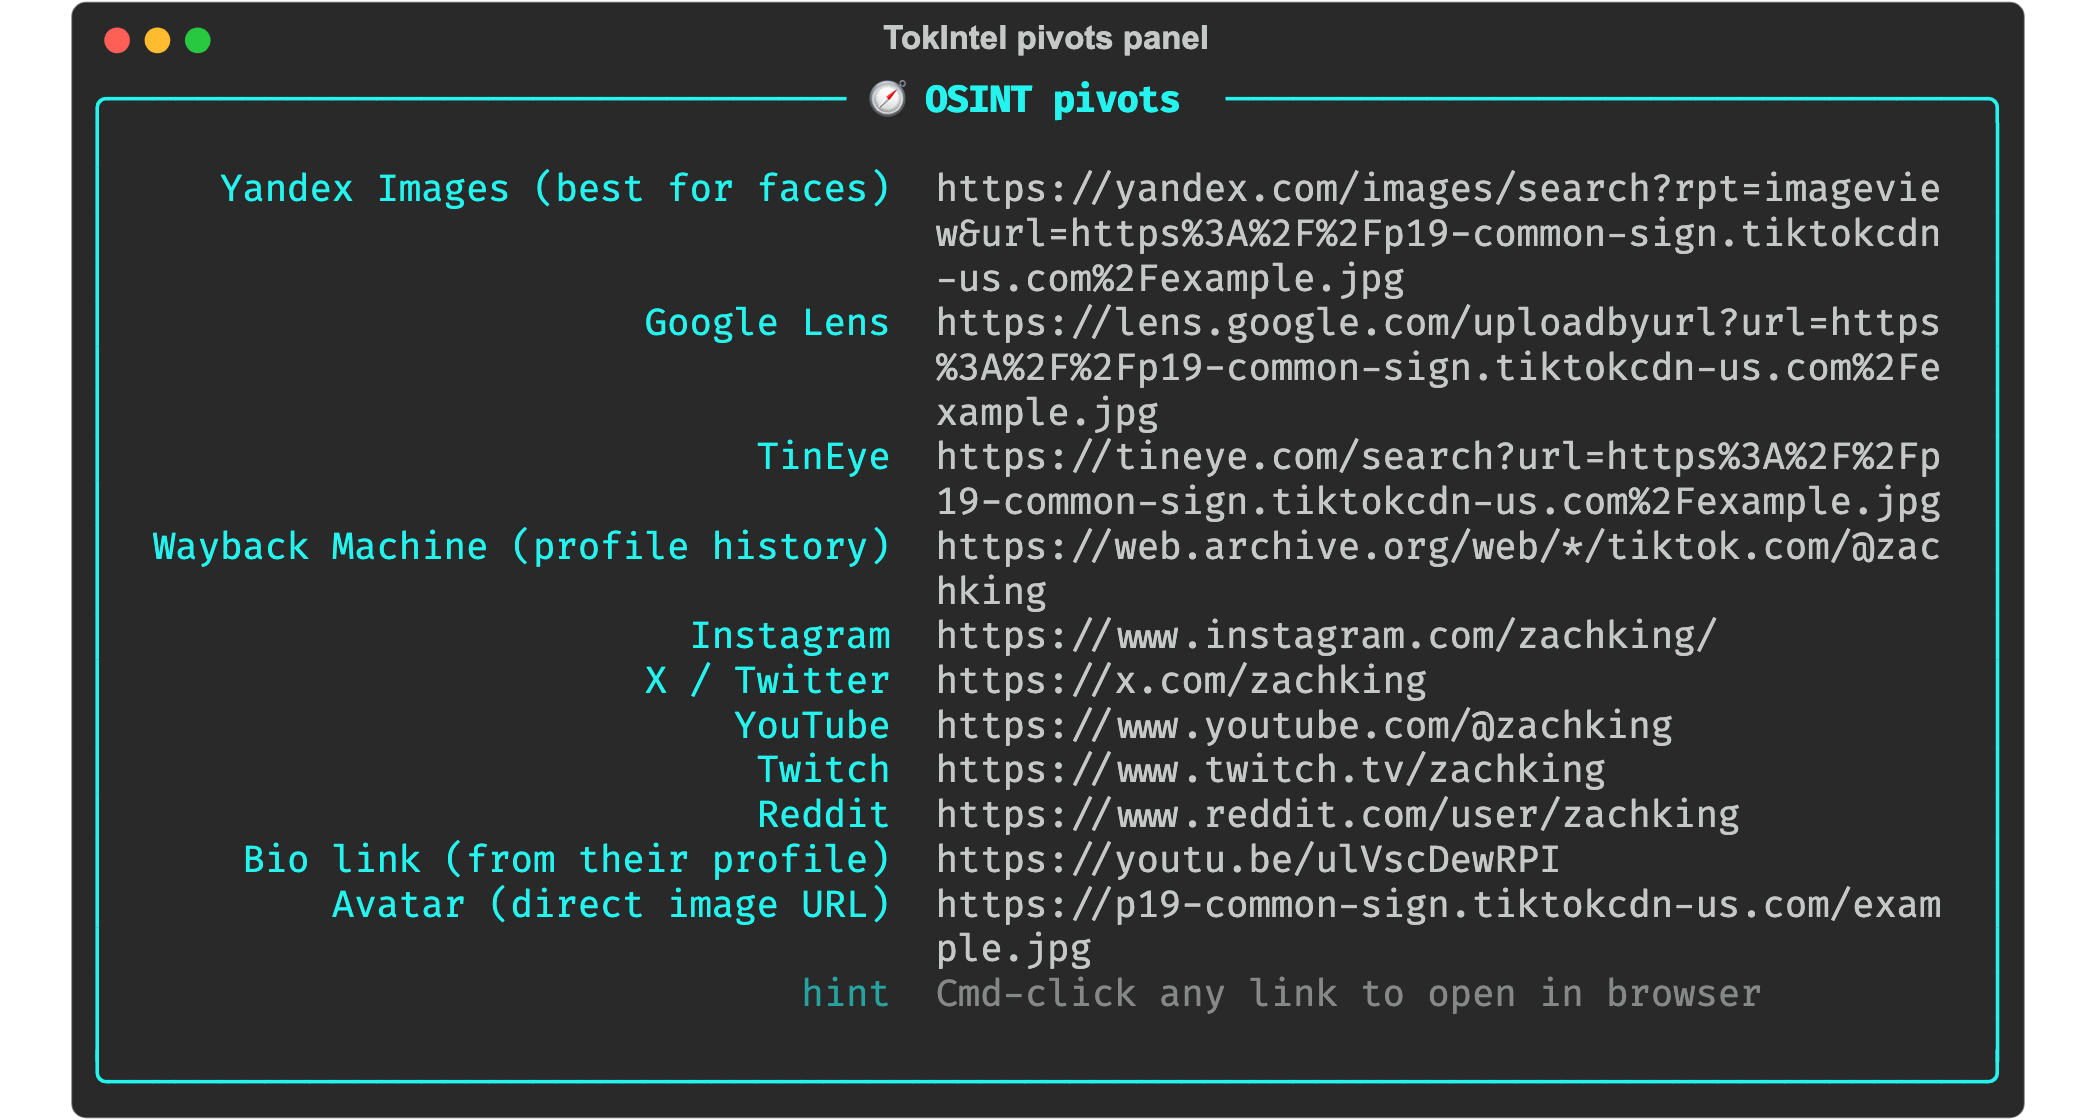
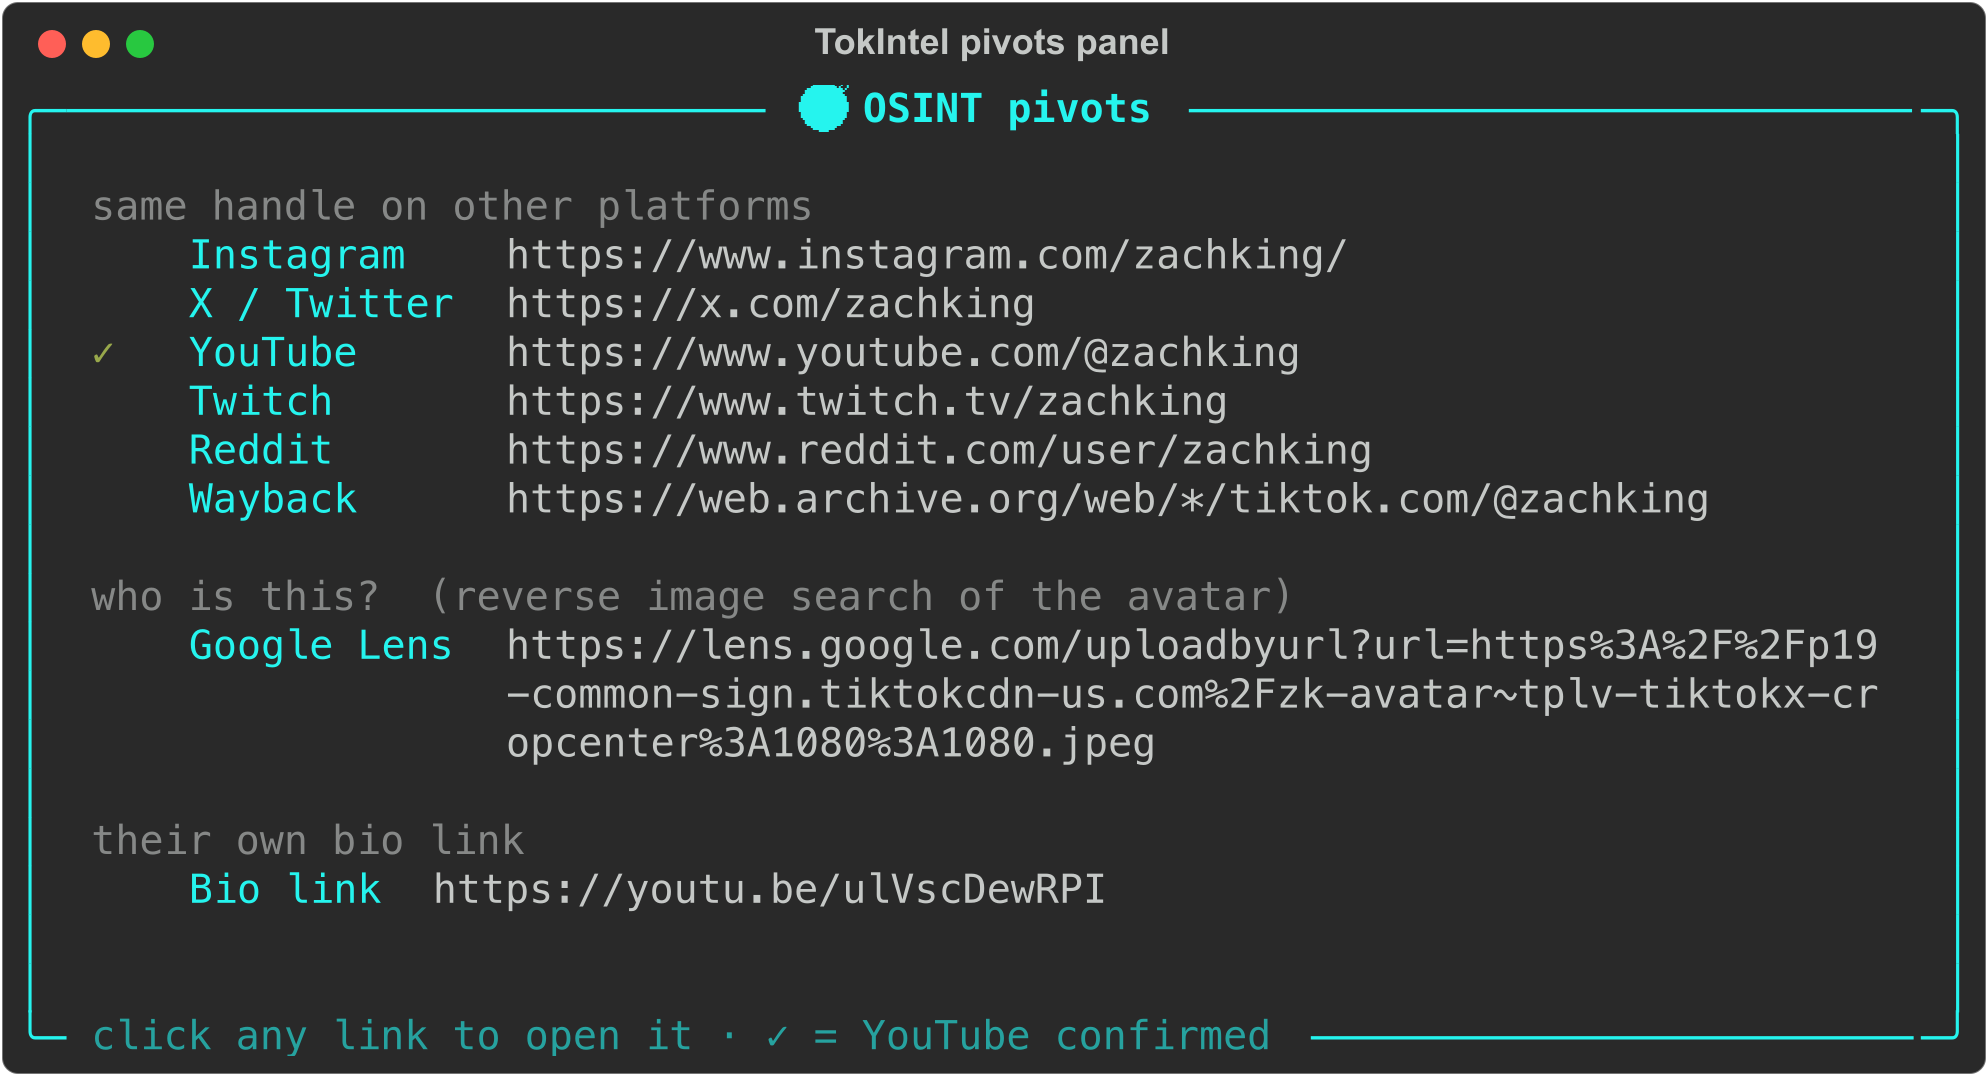
Make pivot links open on any terminal, refresh the screenshot
Cmd-click was Mac wording, but the tool runs on Windows and Linux too. The
links already work the same everywhere: a standard OSC 8 hyperlink plus the
full visible URL, so a terminal opens it on click, detects it on its own, or
lets you copy it. Reworded the hint to match, and regenerated the README
screenshot to show the current grouped panel.

Changed region(s): [[0.0, 0.0, 1.0, 1.0], [0.7485, 0.8587, 0.8421, 0.9201], [0.6861, 0.8587, 0.7173, 0.9201]]

diff --git a/tiktok_ui.py b/tiktok_ui.py
@@ -171,9 +171,9 @@ def render_pivots(data):
         probed = probe_pivots(pivots)
 
     # Group the pivots under plain headings, and show each as a full, visible
-    # URL. The URL is the clickable link (Cmd-click in Terminal.app), and because
-    # it shows in full it stays readable and copyable in any terminal, even one
-    # that doesn't render terminal hyperlinks.
+    # URL. The URL itself is the clickable hyperlink in any terminal that
+    # supports OSC 8 links, and because it shows in full it also stays readable,
+    # copyable, and auto-detectable as a link in terminals that don't.
     by_section, order = {}, []
     for label, url, status in probed:
         sect = _pivot_section(label)
@@ -193,7 +193,7 @@ def render_pivots(data):
         blocks += [Text(sect, style="dim"), tbl, Text("")]
 
     console.print(Panel(Group(*blocks), title="[bold]🧭 OSINT pivots[/]",
-                        subtitle="[dim]click or Cmd-click a link · ✓ = YouTube confirmed[/]",
+                        subtitle="[dim]click any link to open it · ✓ = YouTube confirmed[/]",
                         subtitle_align="left",
                         border_style=TIKTOK_CYAN, box=box.ROUNDED, padding=(1, 2)))
 